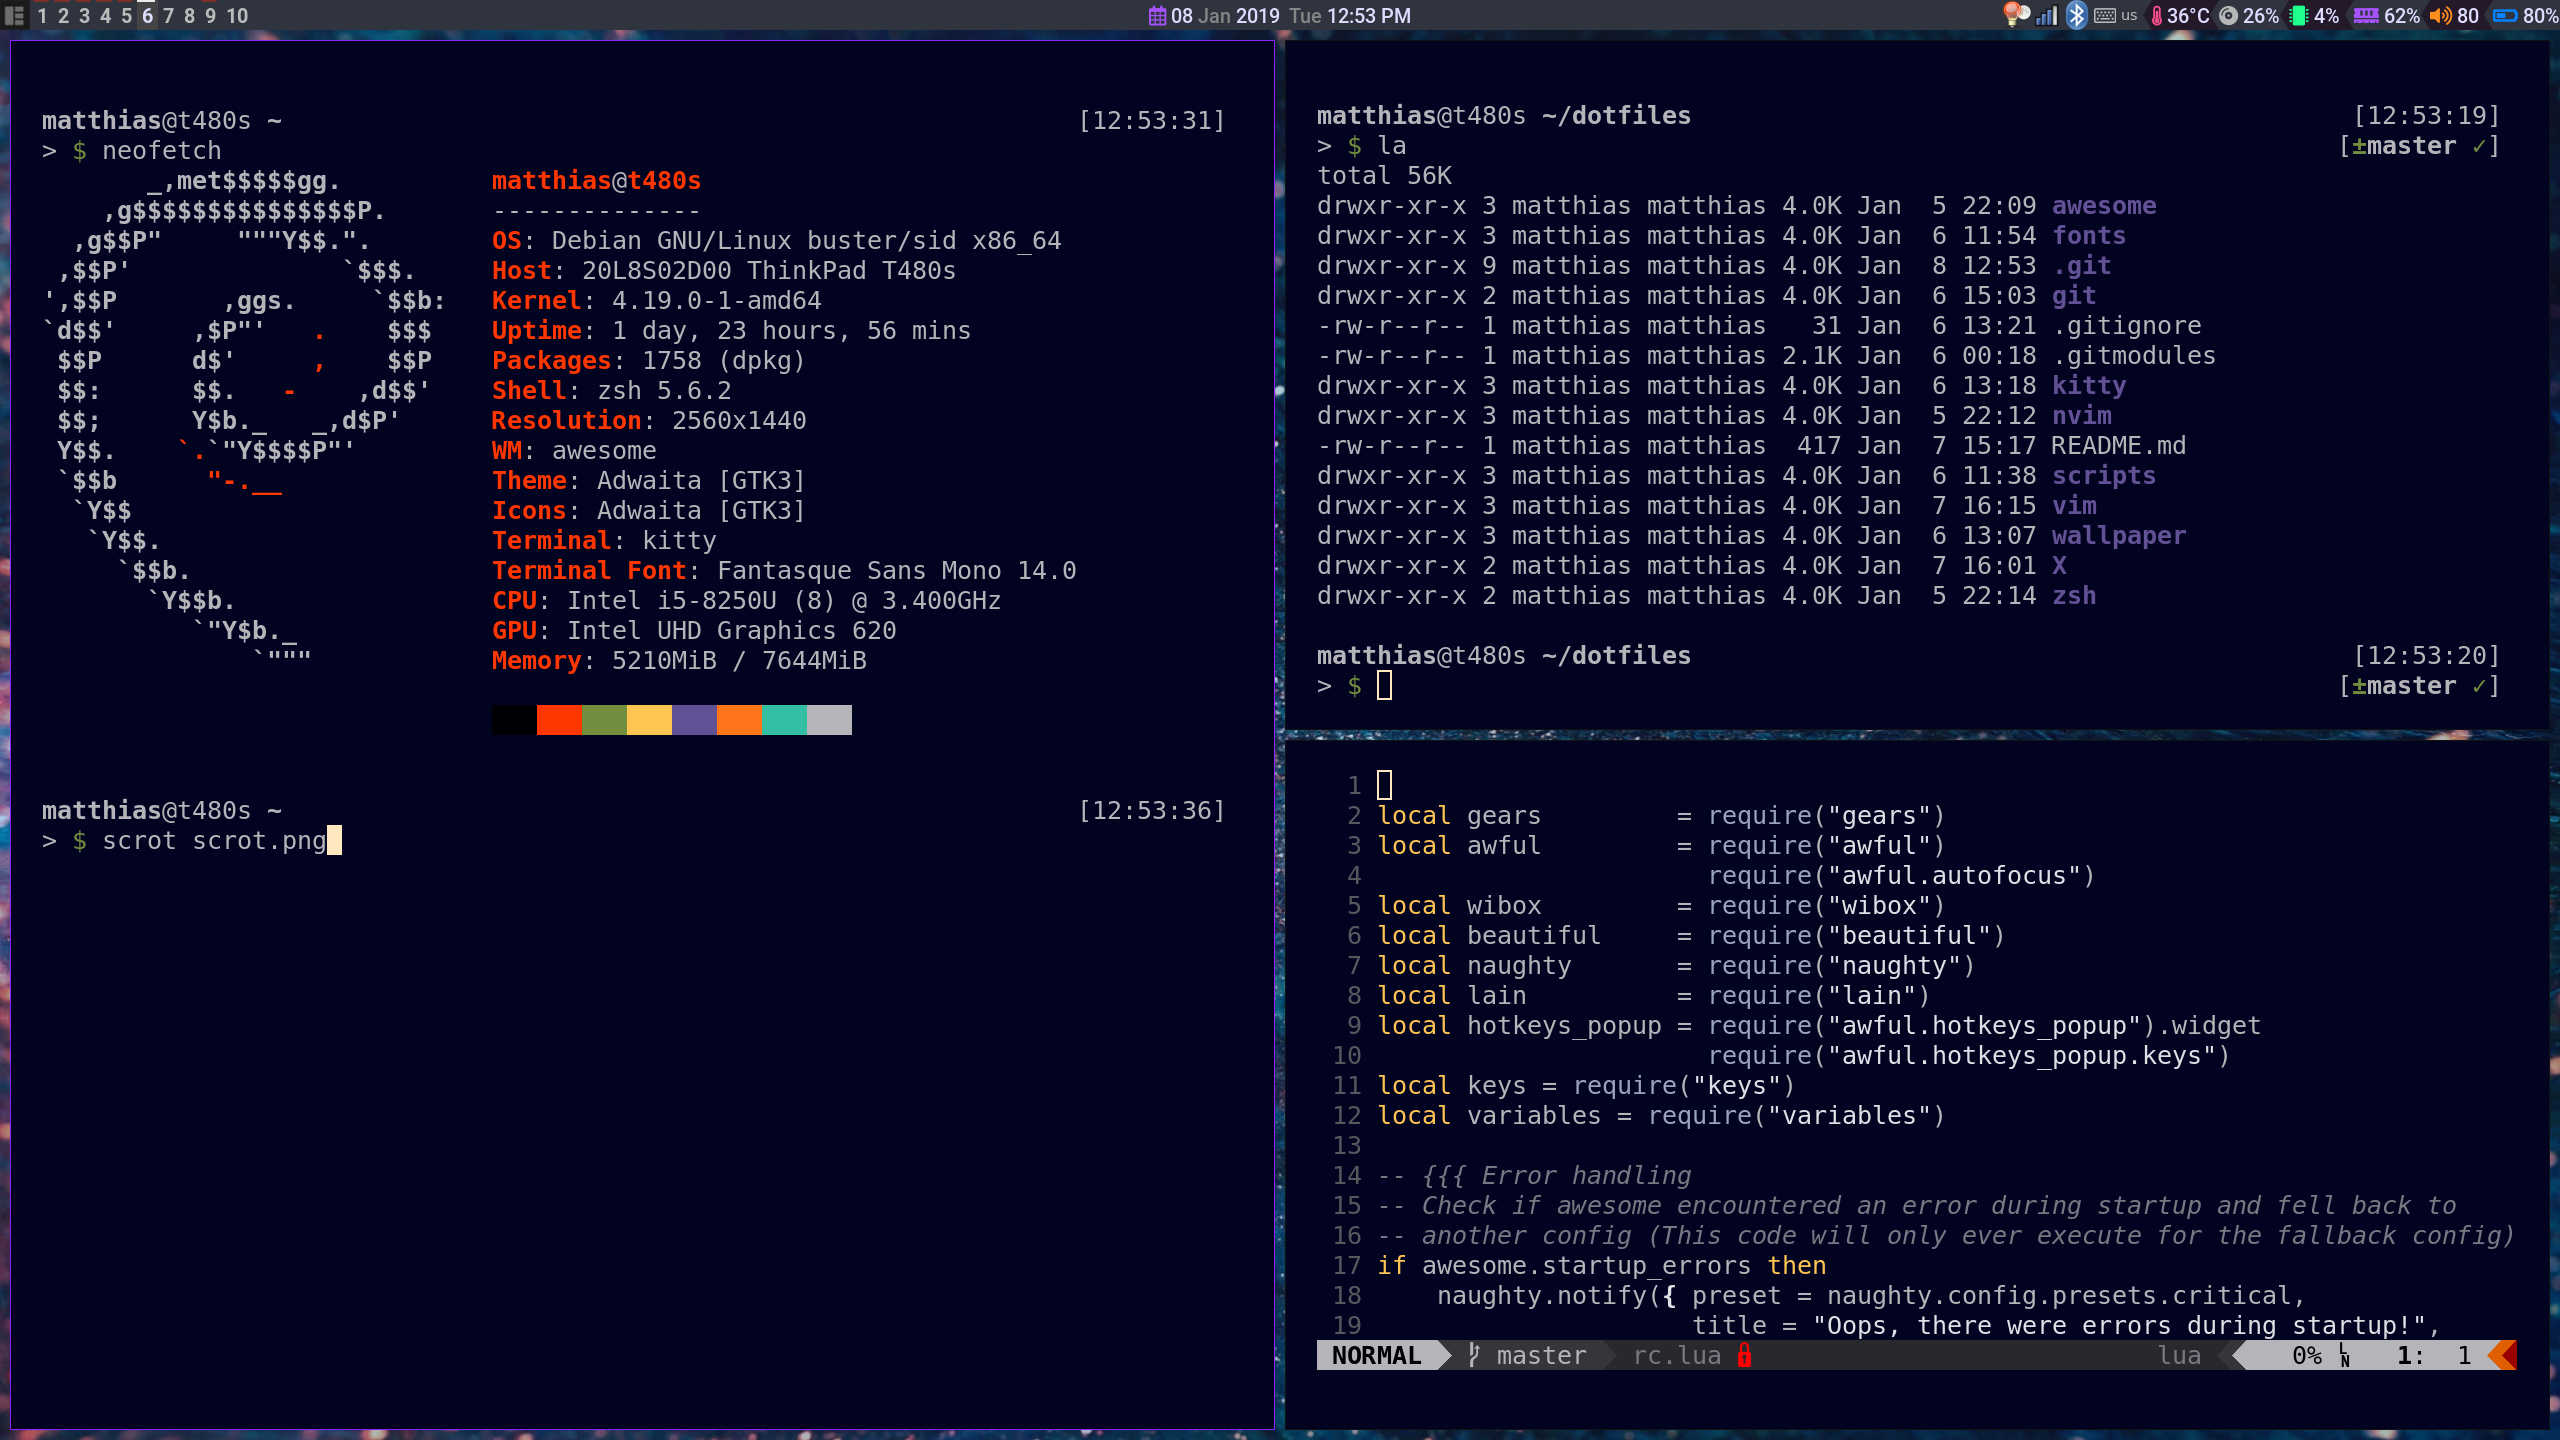
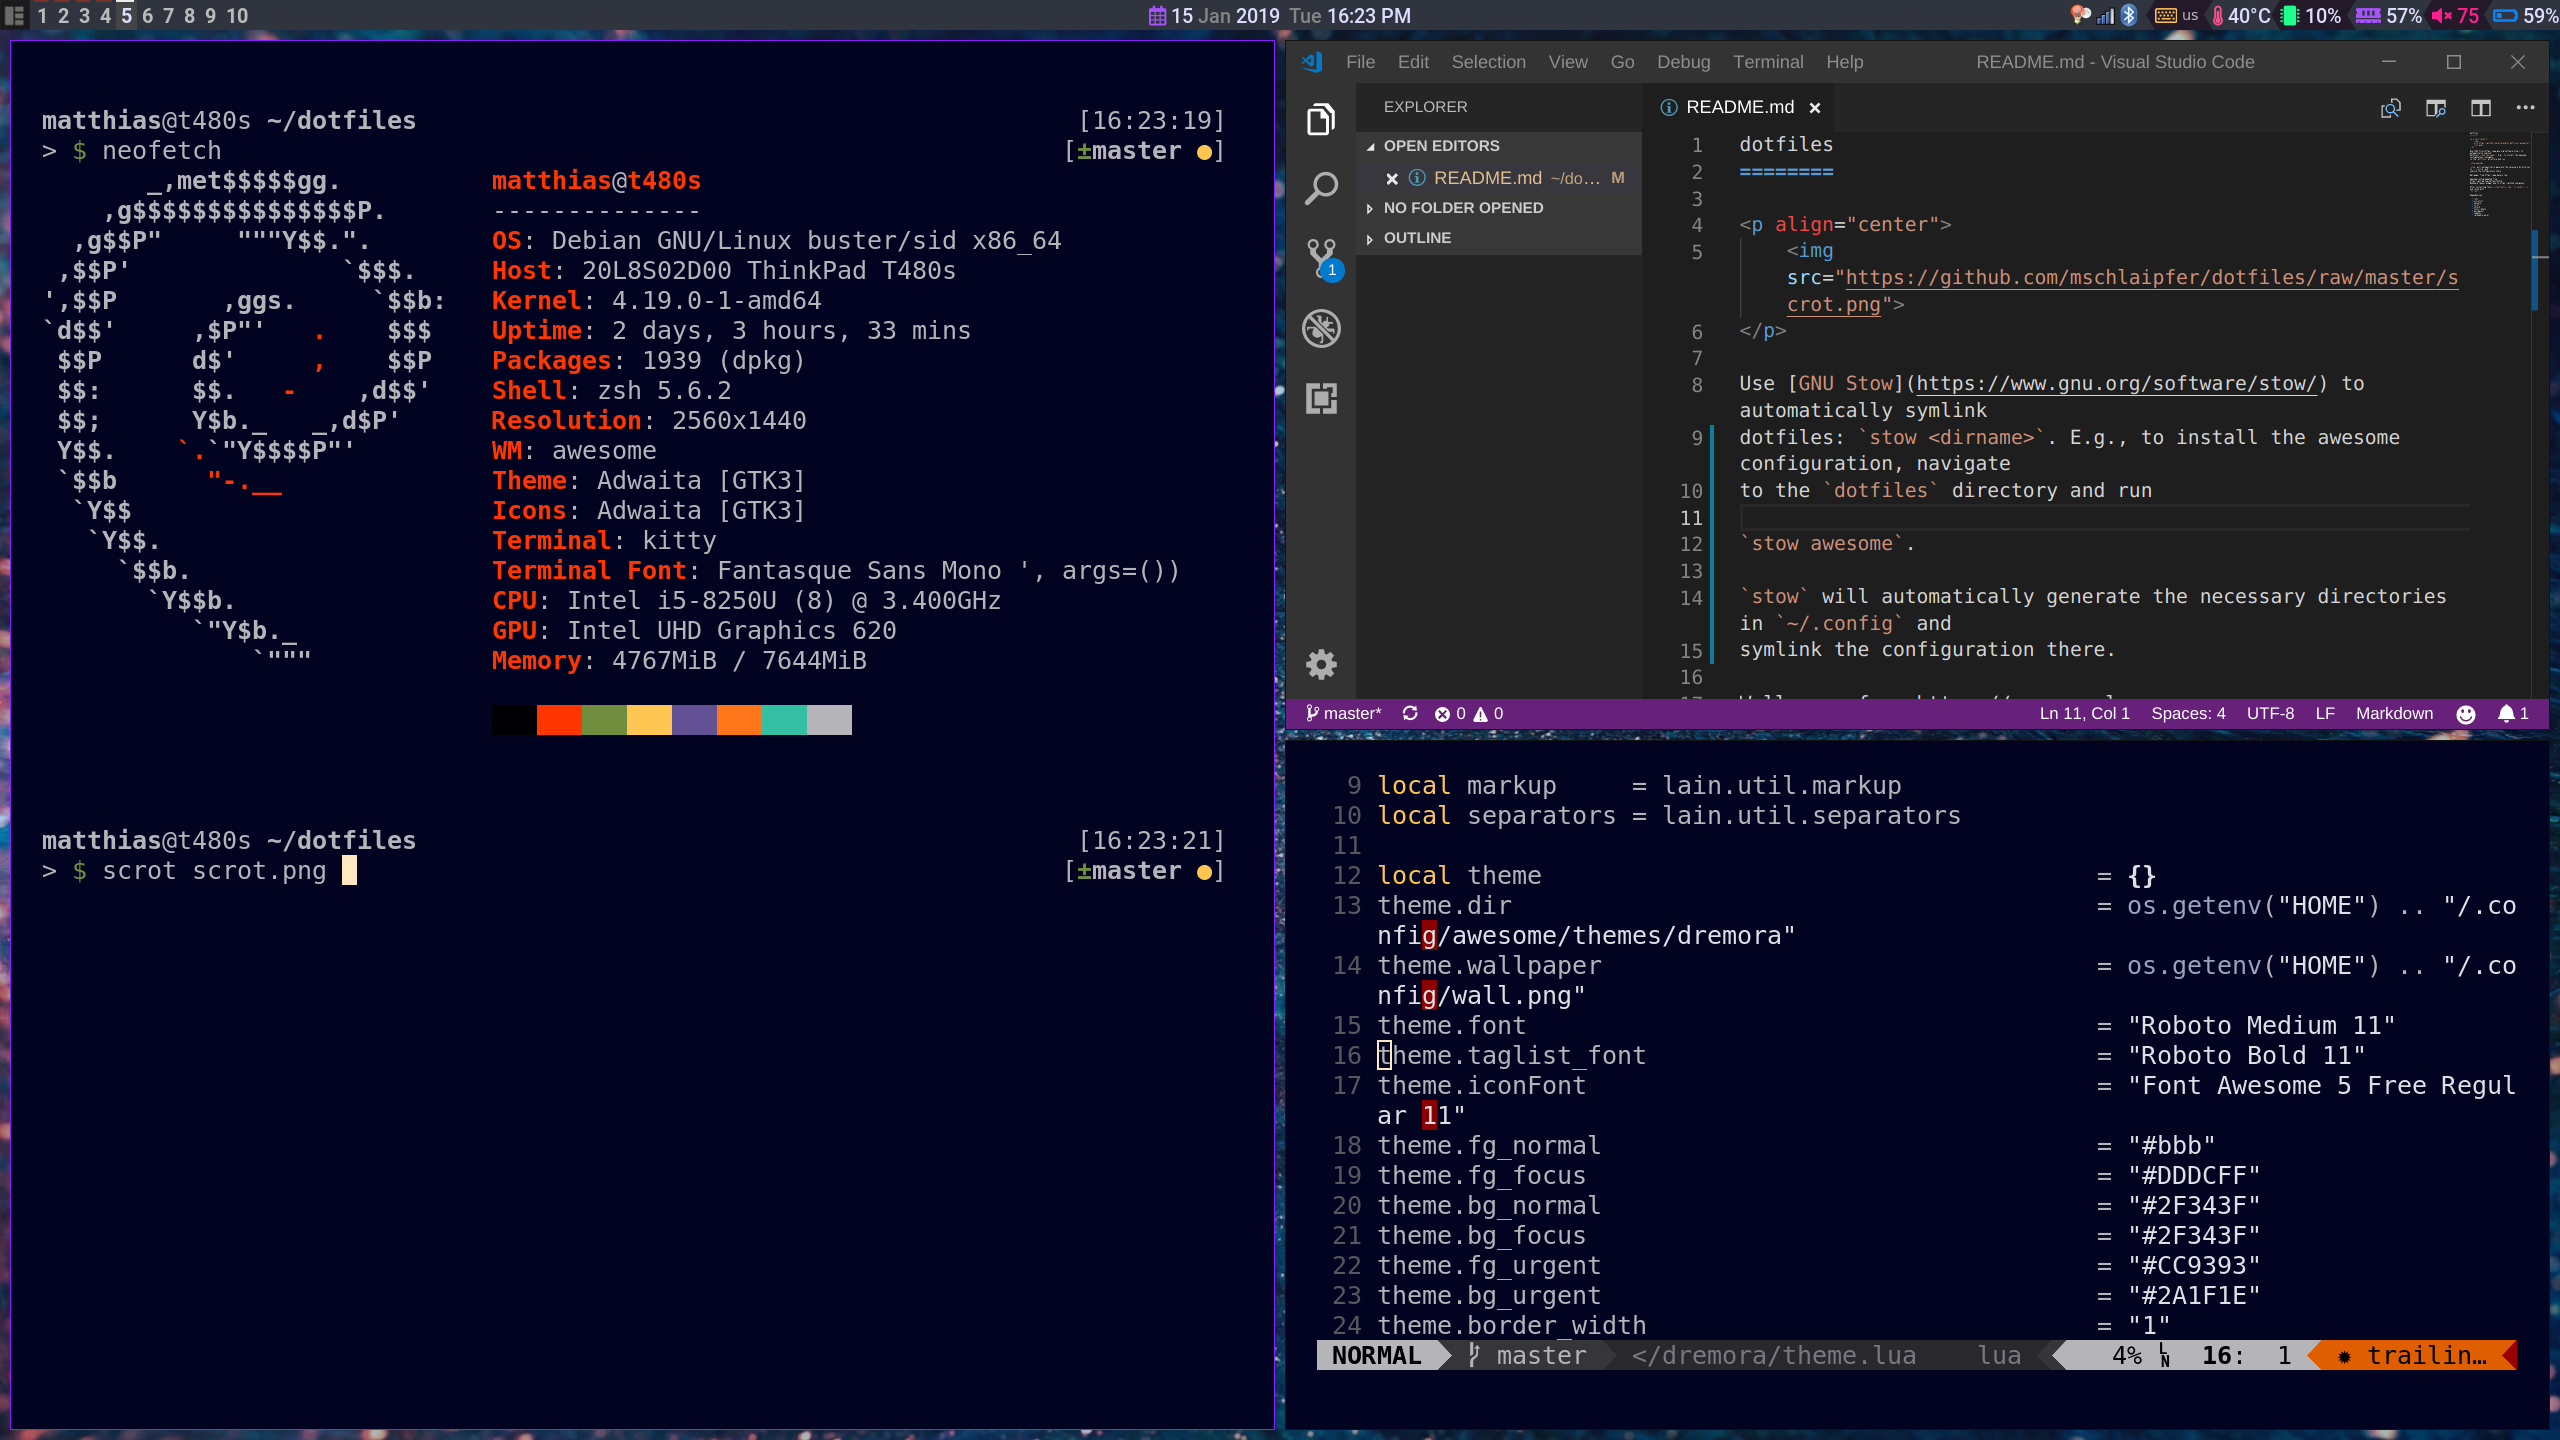
Clarified stow in README, new screenshot

diff --git a/README.md b/README.md
@@ -6,7 +6,13 @@ dotfiles
 </p>
 
 Use [GNU Stow](https://www.gnu.org/software/stow/) to automatically symlink
-dotfiles: `stow <dirname>`.
+dotfiles: `stow <dirname>`. E.g., to install the awesome configuration, navigate
+to the `dotfiles` directory and run 
+
+`stow awesome`.
+
+`stow` will automatically generate the necessary directories in `~/.config` and
+symlink the configuration there.
 
 Wallpaper from https://www.pexels.com.
 
